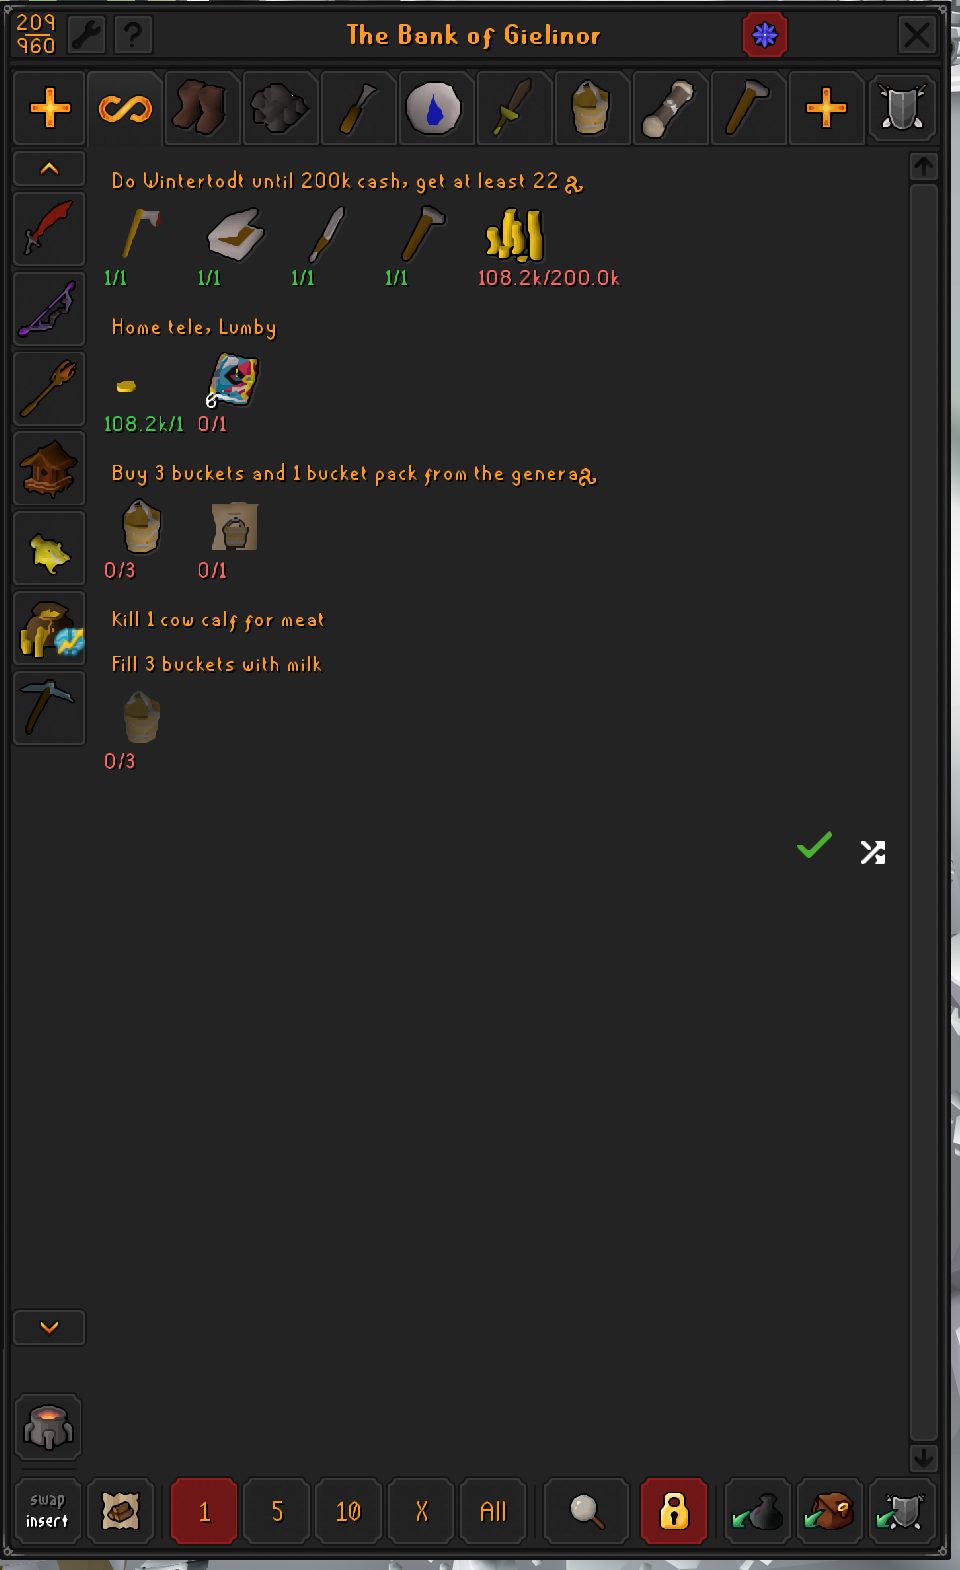
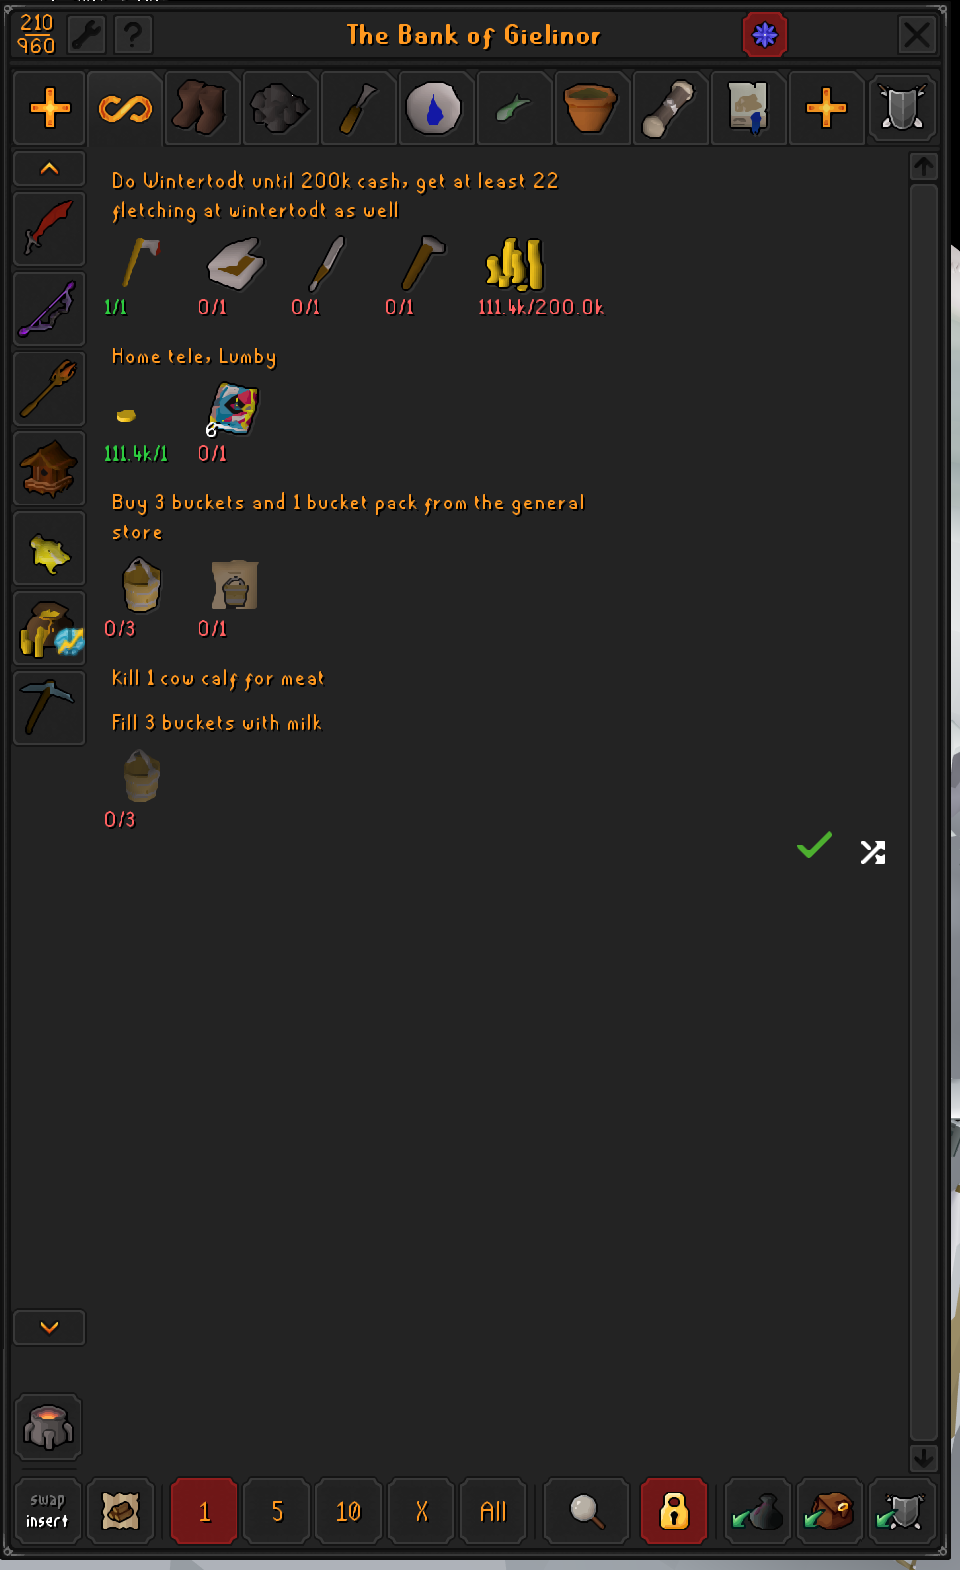
Docs: bank filter screenshot (wrapped headers) in README and guide

diff --git a/README.md b/README.md
@@ -30,12 +30,14 @@ when the travel completes. Steps auto-complete off skill levels, quest
 state, item counts, teleports, arrivals and mid-quest checkpoints — the
 checkbox is always there when detection can't know.
 
-Also in the plugin (screenshots coming): a Quest Helper-style **bank
-view** that groups every upcoming step's items into sections with
-green/red have/need counts (the real, withdrawable bank widgets);
-**shopkeeper outlines** with the item you're buying floating overhead;
-teleport click-path highlights; and a quest handoff that stands our
-navigation down while Quest Helper guides an in-progress quest.
+![The bank filter: every upcoming step as a shopping-list section](docs/bank-filter.png)
+
+The Quest Helper-style **bank view**: every upcoming step becomes its
+own section with green/red have/need counts — and owned items are the
+real, withdrawable bank widgets. Also in the plugin: **shopkeeper
+outlines** with the item you're buying floating overhead, teleport
+click-path highlights, and a quest handoff that stands our navigation
+down while Quest Helper guides an in-progress quest.
 
 ## Credits
 

diff --git a/docs/GUIDE.md b/docs/GUIDE.md
@@ -99,13 +99,21 @@ With Shortest Path installed, the plugin drives it for you:
 
 ## The bank filter
 
+<img src="bank-filter.png" width="420" align="right">
+
 Click the **IRONSCAPE button inside the bank** (or type `bruh` in the
 bank search). The bank redraws as your shopping list: every upcoming
 step becomes its own section — the step's text as a header, all of its
 items below with green/red `have/need` counts. Items you own are the
 **real bank widgets**, so you withdraw straight from the filtered view
 (even items from other tabs); items you still need to buy or gather
-show as ghosts. Click any real tab to go back to your normal bank.
+show as ghosts. In the shot: the axe is already in hand (green), the
+other tools are still banked (red — withdraw them), and the gold
+tracks the step's 200k target. Click any real tab to go back to your
+normal bank.
+
+<br clear="right">
+
 
 ## When detection is wrong
 
